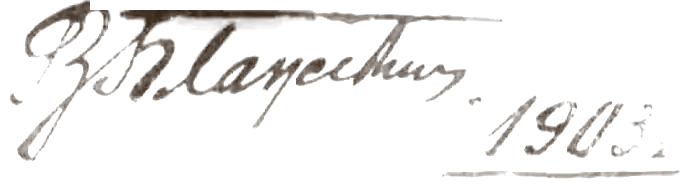
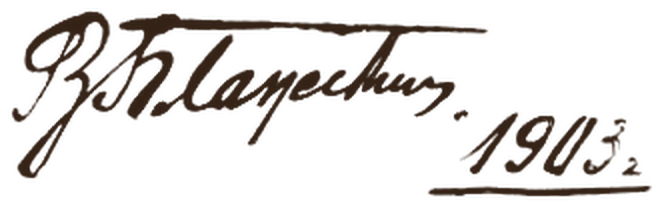
Вернуть автограф Блажевича из макета владельца в шапку досье «Москва»
Claude-Session: https://claude.ai/code/session_01KvyHv3yqw6H9Z57F4oExu8

Changed region(s): [[0.0, 0.0, 0.7553, 0.8696], [0.6344, 0.5163, 0.997, 0.9783]]

diff --git a/src/ru/moscow.html b/src/ru/moscow.html
@@ -1,6 +1,6 @@
 <section id="moscow" class="block"><div class="wrap">
   <div class="staff" aria-hidden="true"></div>
-  <div class="section-head reveal"><h2>Московская тромбоновая школа</h2><div class="eyebrow">Досье · <a href="#m-bork">Борк</a> → <a href="#m-blazhevich">Блажевич</a> → <a href="#p-shcherbinin">Щербинин</a></div><p>Подробное досье о преемственности московской школы: от первых тромбонистов Большого театра до учеников Щербинина и гнесинской ветви. Собрано 10 ноября 2026 года по открытым источникам и архивным описям. Знаком <span class="warn">⚠</span> отмечены расходящиеся или непроверенные сведения.</p><nav class="dossier-toc" aria-label="Разделы досье"><ol><li><a href="#m-origins"><span>01.</span> Истоки и Большой театр</a></li><li><a href="#m-blazhevich"><span>02.</span> Эпоха В. М. Блажевича</a></li><li><a href="#p-shcherbinin"><span>03.</span> Класс В. А. Щербинина</a></li><li><a href="#p-gnesin"><span>04.</span> Гнесинская ветвь</a></li></ol></nav><figure class="autograph"><img src="assets/autograph-1903.webp" width="695" height="184" alt="Подпись В. М. Блажевича и дата: 1903 г."><figcaption>Автограф В. М. Блажевича, 1903 г.</figcaption></figure></div>
+  <div class="section-head reveal"><h2>Московская тромбоновая школа</h2><div class="eyebrow">Досье · <a href="#m-bork">Борк</a> → <a href="#m-blazhevich">Блажевич</a> → <a href="#p-shcherbinin">Щербинин</a></div><p>Подробное досье о преемственности московской школы: от первых тромбонистов Большого театра до учеников Щербинина и гнесинской ветви. Собрано 10 ноября 2026 года по открытым источникам и архивным описям. Знаком <span class="warn">⚠</span> отмечены расходящиеся или непроверенные сведения.</p><nav class="dossier-toc" aria-label="Разделы досье"><ol><li><a href="#m-origins"><span>01.</span> Истоки и Большой театр</a></li><li><a href="#m-blazhevich"><span>02.</span> Эпоха В. М. Блажевича</a></li><li><a href="#p-shcherbinin"><span>03.</span> Класс В. А. Щербинина</a></li><li><a href="#p-gnesin"><span>04.</span> Гнесинская ветвь</a></li></ol></nav><figure class="autograph"><img src="assets/autograph-1903.webp" width="662" height="208" alt="Подпись В. М. Блажевича и дата: 1903 г."><figcaption>Автограф В. М. Блажевича, 1903 г.</figcaption></figure></div>
 
   <figure class="dossier-tree reveal" aria-labelledby="tree-title">
     <h3 id="tree-title">Генеалогия школы</h3>
